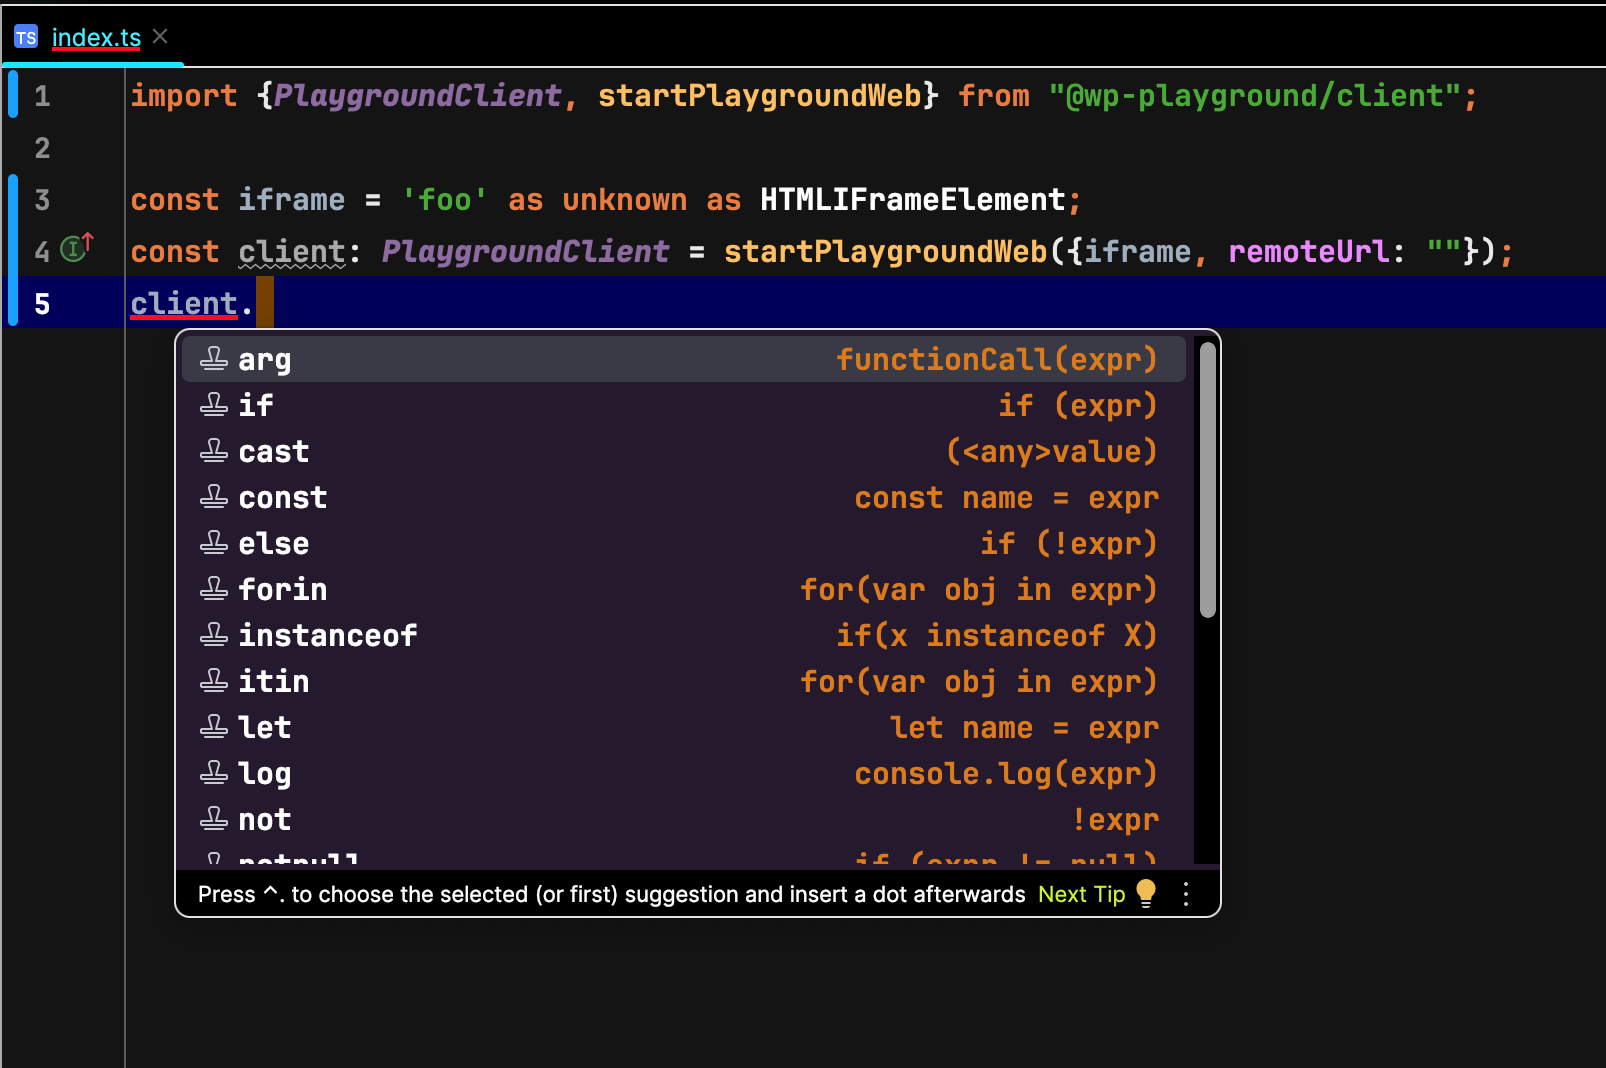
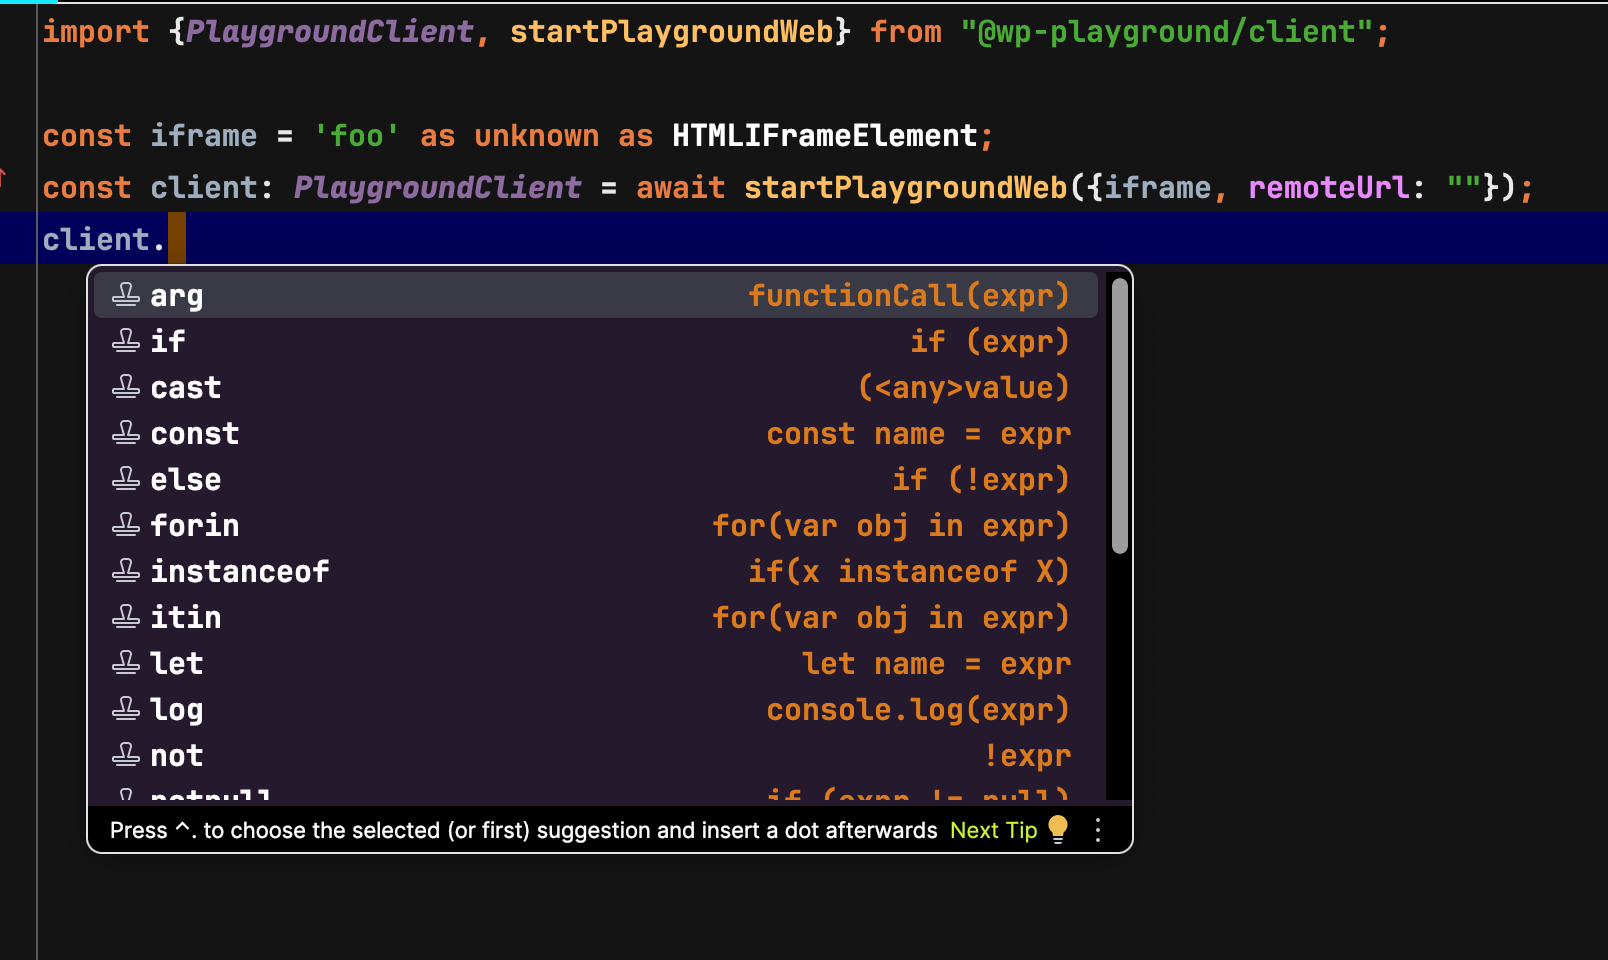
Await

Changed region(s): [[0.0, 0.0, 1.0, 0.9062]]

diff --git a/src/index.ts b/src/index.ts
@@ -1,4 +1,4 @@
 import {PlaygroundClient, startPlaygroundWeb} from "@wp-playground/client";
 
 const iframe = 'foo' as unknown as HTMLIFrameElement;
-const client: PlaygroundClient = startPlaygroundWeb({iframe, remoteUrl: ""});
+const client: PlaygroundClient = await startPlaygroundWeb({iframe, remoteUrl: ""});
